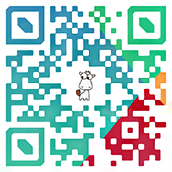
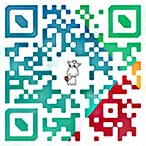
adas
asdas

diff --git a/index.html b/index.html
@@ -68,7 +68,7 @@
   
   <footer class="footer">
   <div class="QRCode_ma" >
-  <img src="images/QRCode_ma.jpg" width="172" height="172" />
+  <img src="images/QRCode_ma.jpg" width="146" height="146" />
   </div>
     <p class="ContEmail" >contact me <strong style="color:#F3AD00">vip@mazhaowei.com</strong></p>
  </footer>

diff --git a/stylesheets/index.css b/stylesheets/index.css
@@ -222,7 +222,8 @@ html, body {
 	}
 	
 .QRCode_ma{
-	width:172px;  
+	width:146px;
+   height:146px; 
 	margin:0 auto;
 	 border-left:1px solid #ADCEDB;
 	  border-top:1px solid #ADCEDB;
